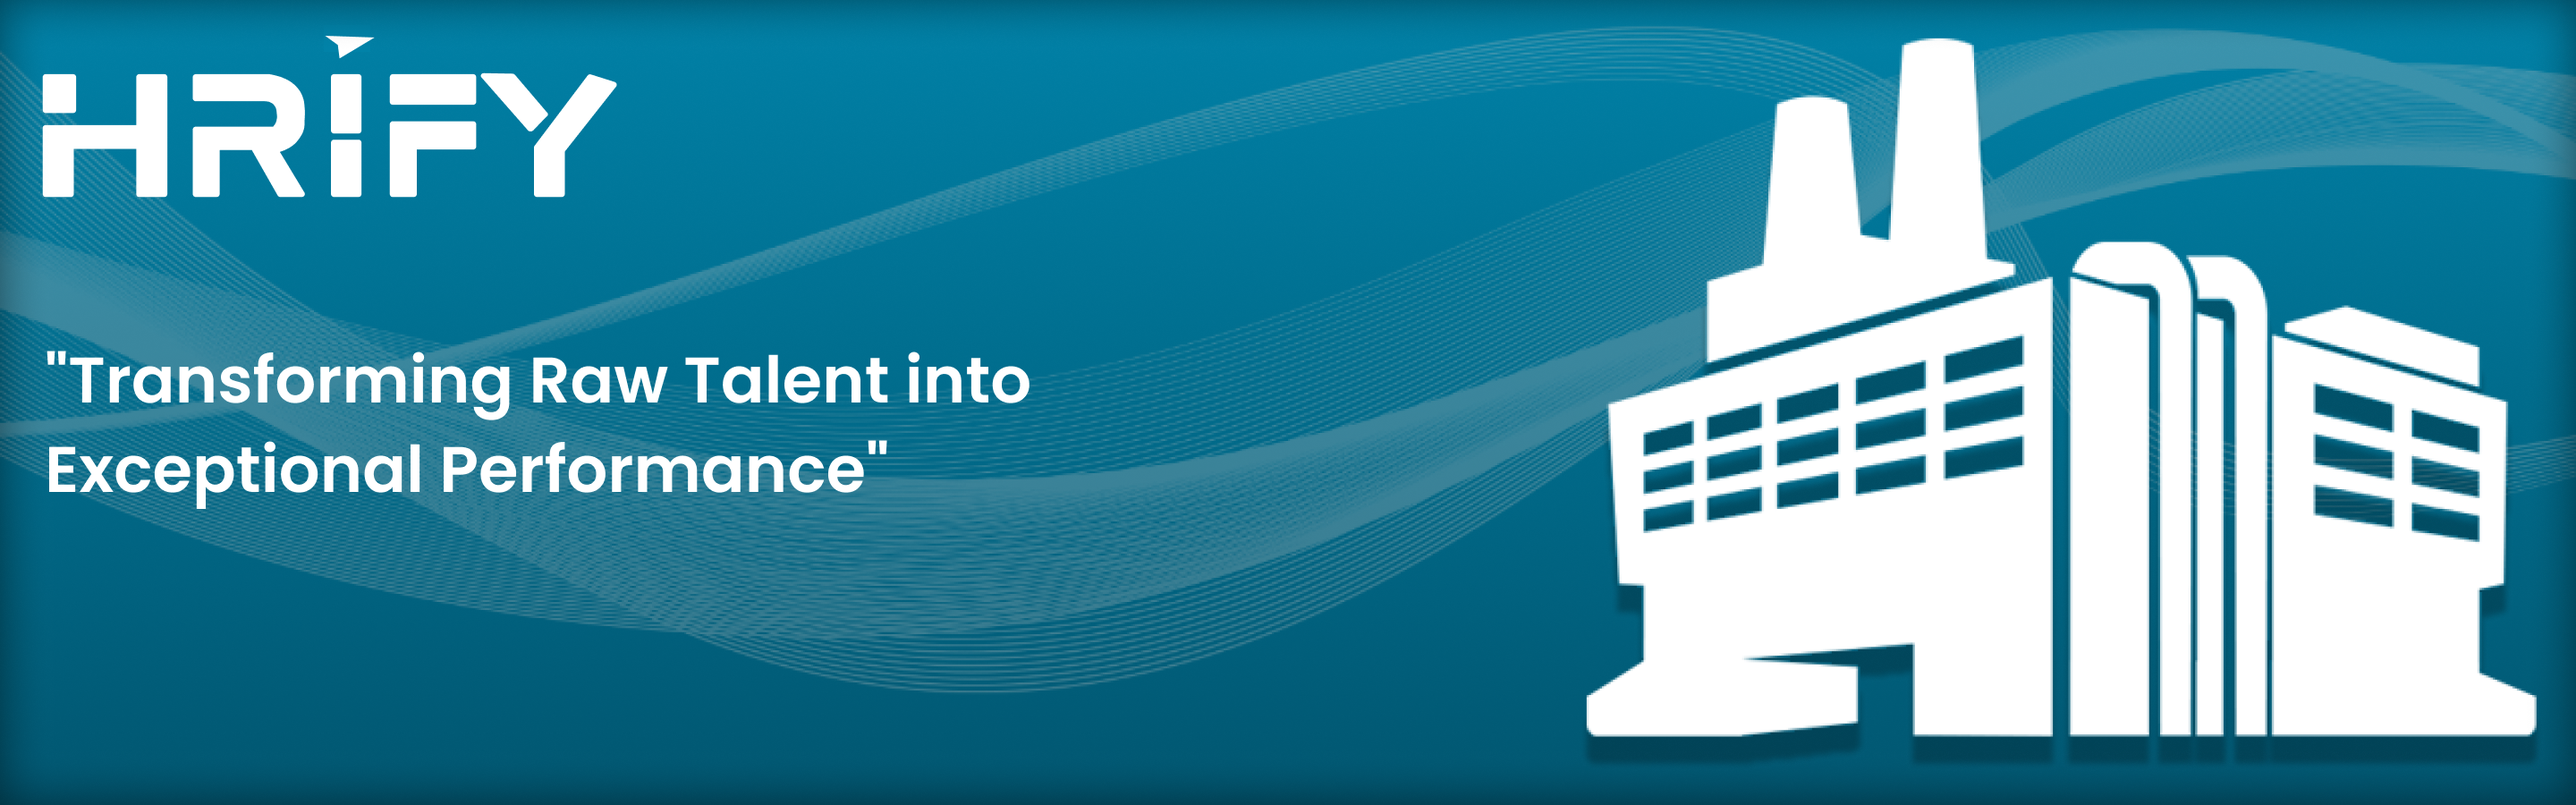
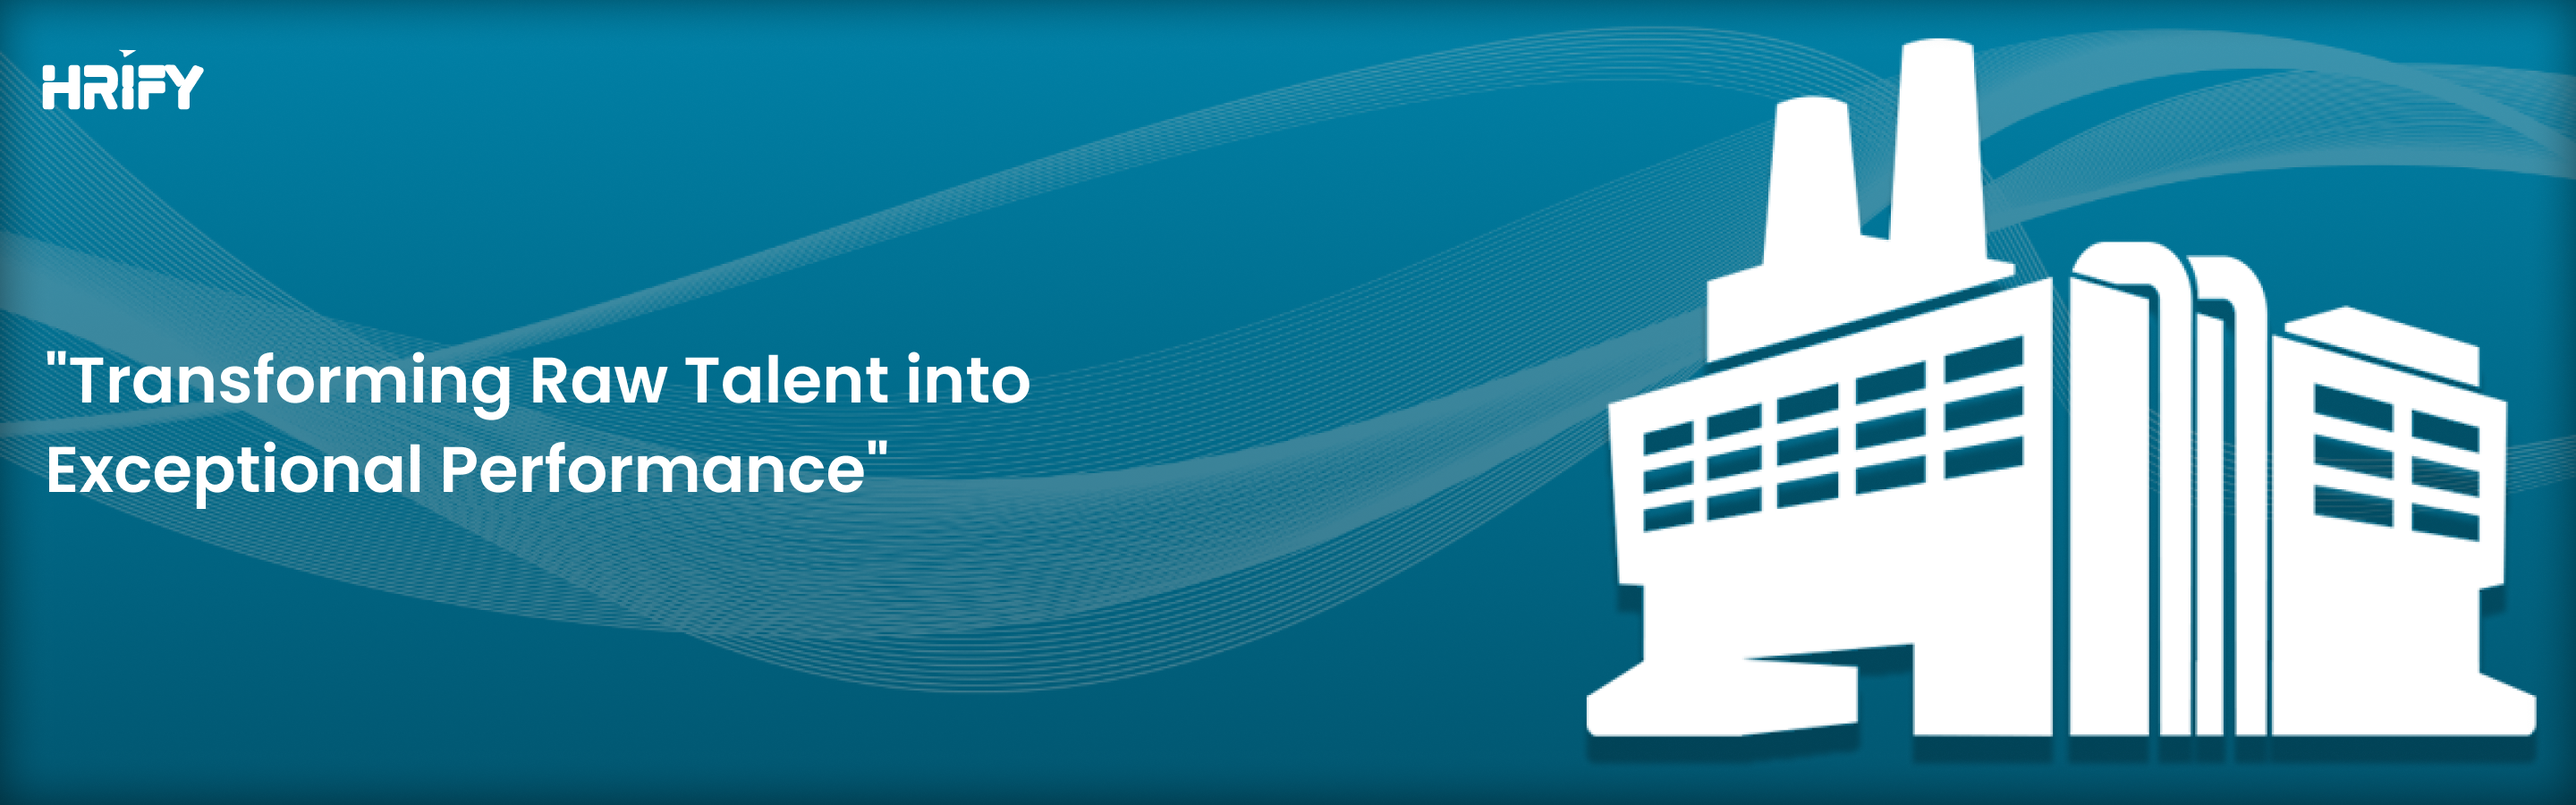
img update

Changed region(s): [[0.0, 0.0622, 0.25, 0.2489], [0.125, 0.0311, 0.1562, 0.0622]]

diff --git a/Hrify_Academy.html b/Hrify_Academy.html
@@ -186,22 +186,45 @@
 
     <div class="container-fluid">
 
-<div class="text-center mt-2">
-  <img src="./assets/acadmyimg/academy.jpg" alt="HRIFY Academy Logo" class="img-fluid px-4 ps-4">
-</div>
-
-      
 
 
 
 
+        <div class="banner-container w-100 mb-5 mt-5">
+            <img src="./assets/banner/compresimg/IndustriesBanner1.jpg" alt="IT Solutions Banner"
+                class="banner-image rounded-4">
+        </div>
 
 
 
+
+
+
+
+        <div class="text-center mt-2">
+            <img src="./assets/acadmyimg/academy.jpg" alt="HRIFY Academy Logo" class="img-fluid px-4 ps-4">
+        </div>
+
+
+
+
+
+
+
+
+<!-- 
 
         <div class="banner-container w-100 mb-4">
             <img src="./assets/banner/compresimg/IndustriesBanner1.jpg" alt="IT Solutions Banner"
                 class="banner-image rounded-4">
+        </div> -->
+
+
+
+
+ <div class="banner-container w-100 mt-5 mb-5">
+            <img src="./assets/banner/compresimg/Intership1.png" alt="IT Solutions Banner"
+                class="banner-image px-4 ps-4 ">
         </div>
 
 
@@ -211,7 +234,10 @@
             <h1>ON JOB TRAINING<br>(OJT)</h1>
         </header>
 
-
+        <!-- <div class="banner-container w-100">
+            <img src="./assets/banner/compresimg/Intership1.png" alt="IT Solutions Banner"
+                class="banner-image px-4 ps-4 ">
+        </div> -->
 
         <!-- form 1 -->
 
@@ -1397,27 +1423,28 @@
                 </div>
 
                 <!-- Footer Image -->
-               <div class="col-md-6 text-center">
-  <img src="./assets/hrifyacademyimg/footer.png" alt="Footer Image" class="img-fluid footer-img">
+                <div class="col-md-6 text-center">
+                    <img src="./assets/hrifyacademyimg/footer.png" alt="Footer Image" class="img-fluid footer-img">
 
 
-<style>
-  .footer-img {
-    max-width: 250px;
-    margin-left: 300px;
-  }
+                    <style>
+                        .footer-img {
+                            max-width: 250px;
+                            margin-left: 300px;
+                        }
 
-  @media (max-width: 767.98px) {
-    .footer-img {
-      margin-left: 0;
-      margin-right: 20px; /* Adjust this value as needed */
-    }
-  }
-</style>
- 
+                        @media (max-width: 767.98px) {
+                            .footer-img {
+                                margin-left: 0;
+                                margin-right: 20px;
+                                /* Adjust this value as needed */
+                            }
+                        }
+                    </style>
 
 
-</div>
+
+                </div>
 
             </div>
         </div>
